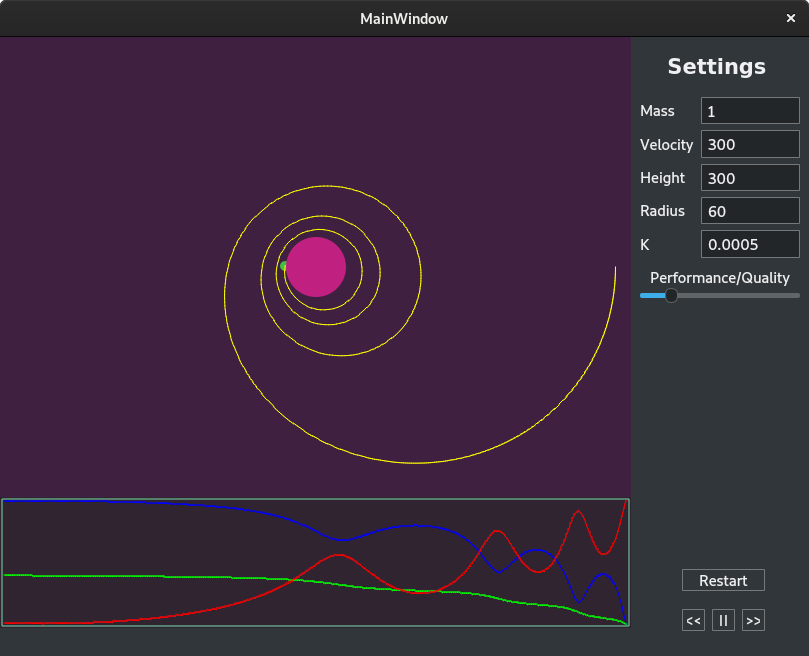
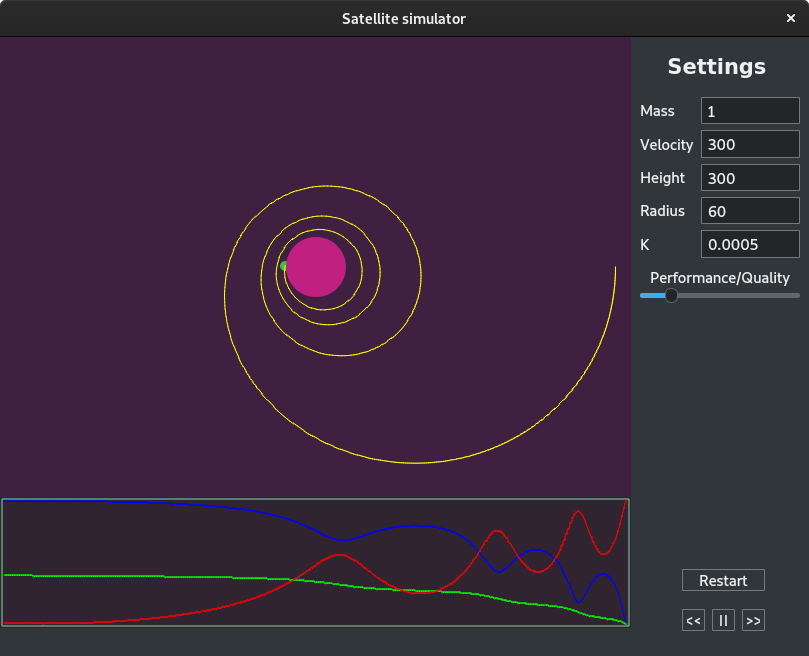
Some small bugs fix

diff --git a/src/design.py b/src/design.py
@@ -92,7 +92,7 @@ class Ui(object):
 
     def retranslateUi(self, MainWindow):
         _translate = QtCore.QCoreApplication.translate
-        MainWindow.setWindowTitle(_translate("MainWindow", "MainWindow"))
+        MainWindow.setWindowTitle(_translate("MainWindow", "Satellite simulator"))
         self.massLabel.setText(_translate("MainWindow", "Mass"))
         self.velocityLabel.setText(_translate("MainWindow", "Velocity"))
         self.heightLabel.setText(_translate("MainWindow", "Height"))
